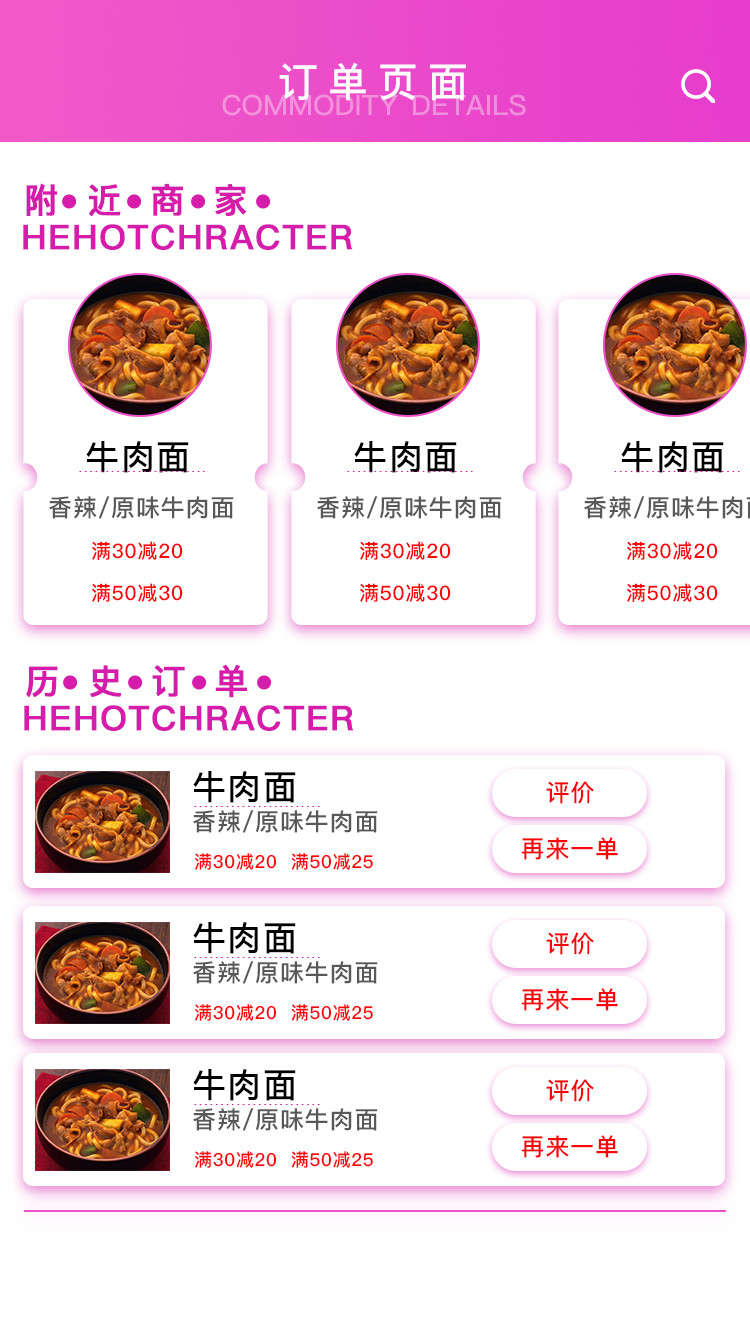
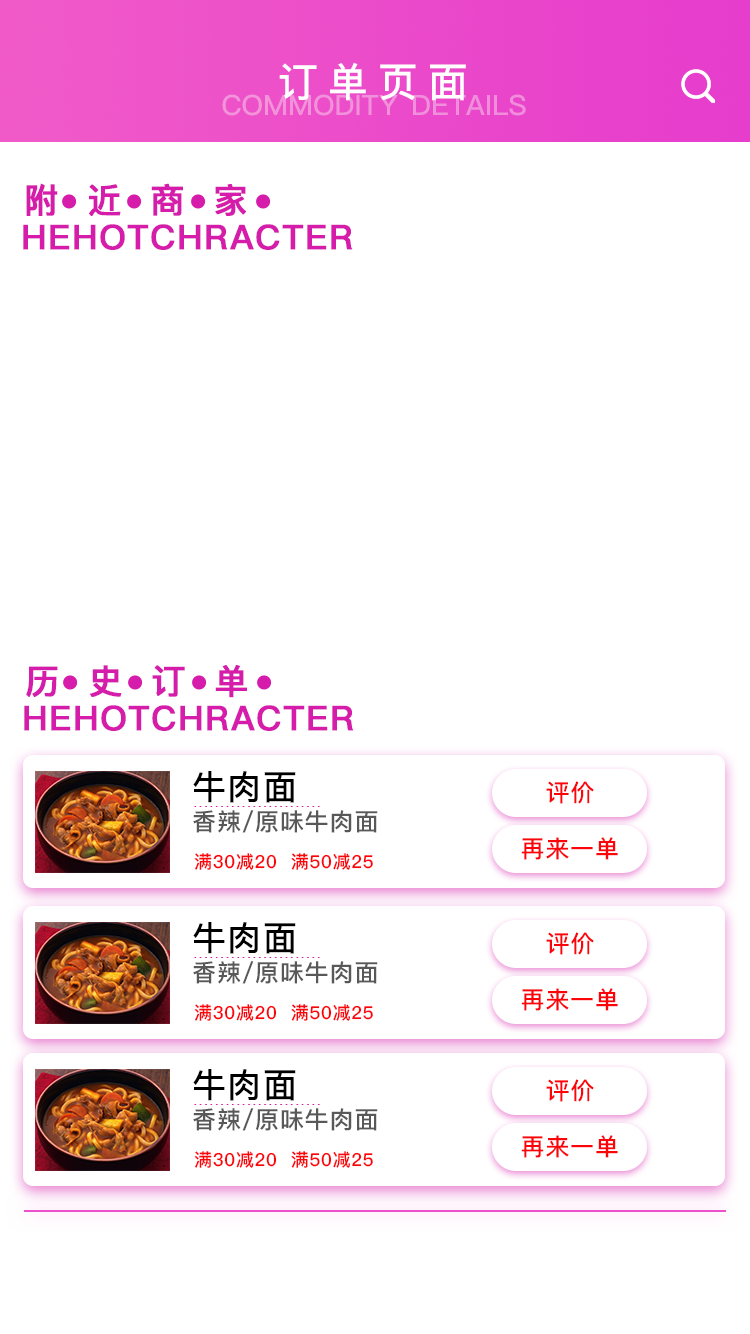
waimai

diff --git a/css/dingdanyemian.css b/css/dingdanyemian.css
@@ -1,8 +1,8 @@
 /*
 * @Author: nanjiao
 * @Date:   2018-08-15 16:59:25
-* @Last Modified by:   nanjiao
-* @Last Modified time: 2018-08-16 21:34:28
+* @Last Modified by:   xiaojiejieJ
+* @Last Modified time: 2018-09-18 18:09:38
 */
 *{
 	margin: 0;
@@ -73,4 +73,46 @@ header{
 	background-size: 0.95rem 0.95rem;
 	margin-top: -0.16rem;
     margin-right: 0.49rem;
+}
+.zhong{
+	width: 100%;
+	height: 4rem;
+	/* margin-top: 0.32rem; */
+	background: #fff;
+	overflow-x: auto;
+	margin-top: -11.2rem;
+    z-index: 999;
+}
+.zhong ul{
+	width: 13rem;
+	height: 100%;
+	background: #fff;
+	display: flex;
+	justify-content: space-between;
+    
+}
+.zhong ul li{
+	width: 2.62rem;
+	height: 3.74rem;
+	padding-right: 0.3rem;
+	padding-left: 0.3rem;
+}
+.zhong ul li div{
+	width: 100%;
+	height: 3.74rem;
+	background: #fff;
+}
+.zhong ul li .tu{
+	width: 2.62rem;
+	height: 3.74rem;
+	background-size: cover;
+	margin-left: 0.1rem;
+	
+}
+.zhong ul li .tu img{
+	width: 2.62rem;
+	height: 3.74rem;
+	/* background-size: cover;
+	margin-left: 0.1rem; */
+	
 }

diff --git a/index.html b/index.html
@@ -79,10 +79,10 @@
 			<div class="title1"><a href="">距离最近</a></div>
 			<div class="title1"><a href="">热门推荐</a></div>
 		</div>
-	<a href="shangjiaxiangqing.html"><div class="list">
+	<div class="list">
 		<div class="pic"></div>
 			<div class="content">
-				<h6>肯德基宅急送（体育路店）</h6>
+				<h6><a href="shangjiaxiangqing.html">肯德基宅急送（体育路店）</a></h6>
 				<div class="er">
 					<div class="star">★★★★☆ <span>4.8</span></div>
 					<div class="yue">月售3900</div>
@@ -95,7 +95,7 @@
 				</div>
 			</div>
 		</div>
-	</a>
+	
 		<div class="list">
 			<div class="pic2"></div>
 			<div class="content">

diff --git a/dingdanyemian.html b/dingdanyemian.html
@@ -19,5 +19,27 @@
 			<a href="gerenzhongxin.html"><div class="me"></div></a>
 		</div>
 	</div>
+	<div class="zhong">
+		<ul>
+			<li>
+				<div class="tu"><img src="img/image3/tu.png" alt=""></div>
+			</li>
+			<li>
+				<div class="tu"><img src="img/image3/tu.png" alt=""></div>
+			</li>
+			<li>
+				<div class="tu"><img src="img/image3/tu.png" alt=""></div>
+			</li>
+			<li>
+				<div class="tu"><img src="img/image3/tu.png" alt=""></div>
+			</li>
+			<li>
+				<div class="tu"><img src="img/image3/tu.png" alt=""></div>
+			</li>
+			<li>
+				<div class="tu"><img src="img/image3/tu.png" alt=""></div>
+			</li>
+		</ul>
+	</div>
 </body>
 </html>

diff --git a/css/index.css b/css/index.css
@@ -1,8 +1,8 @@
 /*
 * @Author: 我的文档
 * @Date:   2018-08-08 08:50:35
-* @Last Modified by:   nanjiao
-* @Last Modified time: 2018-09-15 17:39:46
+* @Last Modified by:   xiaojiejieJ
+* @Last Modified time: 2018-09-18 17:09:35
 */
 *{
 	margin: 0;
@@ -196,6 +196,10 @@ nav ul li{
 	background-size: 1.52rem 1.92rem;
 	float: left;
 }
+.tuijian .list .content h6 a{
+	text-decoration: none;
+	color: #000;
+} 
 .tuijian .list .pic2{
 	width: 1.52rem;
 	height: 1.52rem;
@@ -227,6 +231,7 @@ nav ul li{
 }
 .tuijian .list .content h6{
 	font-size: 0.3rem;
+	color: #000;
 }
 .tuijian .list .content .er .star{
 	font-size: 0.22rem;
